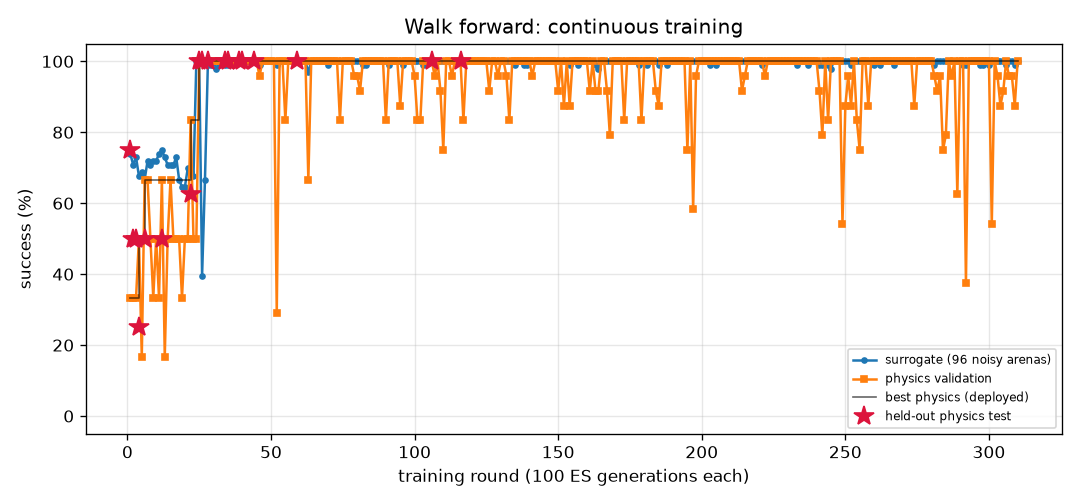
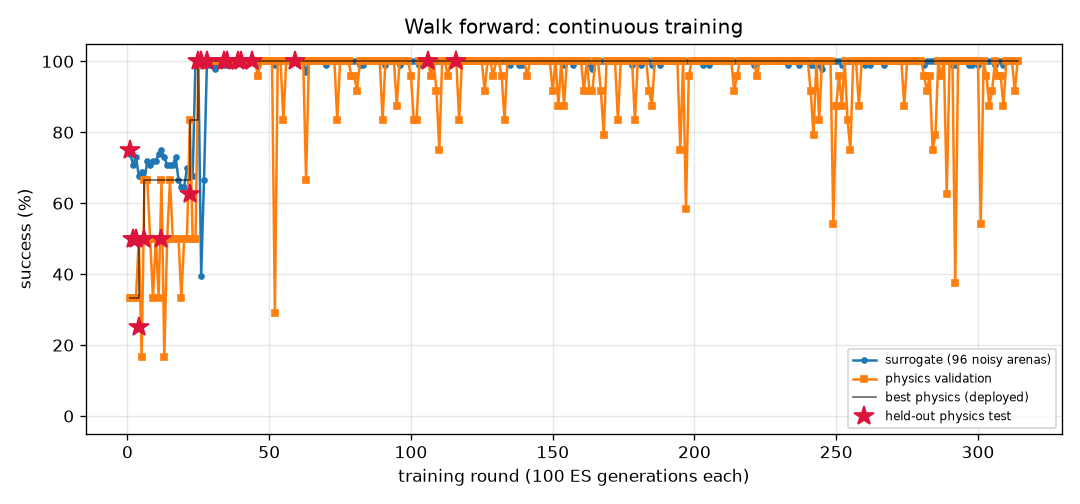
FlyLab: continuous training progress
- walk_forward: optimal, physics val 100% of 24, round 314
- turn: optimal, physics val 100% of 24, round 906
- goto: optimal, physics val 100% of 24, round 251
- odor_seek: optimal, physics val 100% of 24, round 205
- odor_avoid: optimal, physics val 100% of 24, round 817
- light_seek: optimal, physics val 100% of 24, round 447
- light_avoid: optimal, physics val 100% of 24, round 547

diff --git a/projects/09_flylab/training/walk_forward/REPORT.md b/projects/09_flylab/training/walk_forward/REPORT.md
@@ -1,14 +1,14 @@
 # Walk forward (`walk_forward`) — training report
 
-*Auto-generated by `train_brains.py`, last updated 2026-11-07T14:59:04.*
+*Auto-generated by `train_brains.py`, last updated 2026-11-07T15:44:13.*
 
 ![curve](curve.png)
 
 | | |
 |---|---|
-| rounds | 310 |
-| ES generations | 31000 |
-| physics runs | 7454 |
+| rounds | 314 |
+| ES generations | 31400 |
+| physics runs | 7550 |
 | status | **optimal** |
 | best brain | round 116: physics validation **100%** on 24 arenas, surrogate 100% |
 | held-out physics test | **100%** on 32 unseen arenas (95% CI 89%-100%) (errors: [0.13, 0.16, 0.19, 0.16, 0.15, 0.2, 0.17, 0.18, 0.17, 0.19, 0.2, 0.14, 0.17, 0.19, 0.2, 0.2, 0.13, 0.19, 0.16, 0.2, 0.2, 0.16, 0.17, 0.2, 0.13, 0.15, 0.18, 0.14, 0.16, 0.15, 0.19, 0.12]) |
@@ -17,10 +17,6 @@ Physics error per arena: mm from target at the end (< 1.5 and standing still = s
 
 | round | level | gens | sigma | surrogate | physics val | val errors | test | note |
 |---:|---:|---:|---:|---:|---:|---|---:|---|
-| 271 | 3 | 27100 | 0.024 | 100% | 100% | [0.32, 0.23, 0.08, 0.31, 0.24, 0.24, 0.22, 0.09, 0.22, 0.23, 0.09, 0.27, 0.11, 0.08, 0.26, 0.21, 0.15, 0.14, 0.1, 0.16, 0.1, 0.2, 0.26, 0.1] |  |  |
-| 272 | 3 | 27200 | 0.024 | 100% | 100% | [0.21, 0.25, 0.16, 0.21, 0.25, 0.16, 0.25, 0.18, 0.24, 0.25, 0.16, 0.23, 0.18, 0.16, 0.23, 0.23, 0.21, 0.24, 0.19, 0.23, 0.2, 0.24, 0.22, 0.18] |  | restart from best |
-| 273 | 3 | 27300 | 0.024 | 100% | 100% | [0.35, 0.34, 0.25, 0.35, 0.34, 0.24, 0.34, 0.28, 0.34, 0.3, 0.23, 0.28, 0.28, 0.24, 0.35, 0.28, 0.33, 0.35, 0.28, 0.35, 0.31, 0.29, 0.27, 0.28] |  |  |
-| 274 | 3 | 27400 | 0.024 | 100% | 88% | [0.22, 0.12, 0.07, 0.21, 0.1, 0.08, 0.08, 0.04, 0.08, 0.12, 0.08, 0.1, 0.29, 0.07, 0.22, 0.1, 0.2, 0.08, 0.17, 0.22, 0.07, 0.06, 0.05, 0.0] |  |  |
 | 275 | 3 | 27500 | 0.024 | 100% | 100% | [0.27, 0.27, 0.2, 0.26, 0.27, 0.18, 0.26, 0.24, 0.27, 0.24, 0.17, 0.21, 0.23, 0.18, 0.27, 0.22, 0.26, 0.27, 0.24, 0.27, 0.25, 0.23, 0.2, 0.23] |  |  |
 | 276 | 3 | 27600 | 0.024 | 100% | 100% | [0.05, 0.1, 0.09, 0.08, 0.09, 0.08, 0.05, 0.07, 0.11, 0.16, 0.1, 0.13, 0.1, 0.1, 0.11, 0.13, 0.22, 0.1, 0.27, 0.09, 0.05, 0.11, 0.15, 0.09] |  | restart from best |
 | 277 | 3 | 27700 | 0.024 | 100% | 100% | [0.19, 0.18, 0.16, 0.19, 0.18, 0.14, 0.18, 0.17, 0.18, 0.17, 0.06, 0.14, 0.17, 0.15, 0.19, 0.15, 0.18, 0.18, 0.18, 0.19, 0.18, 0.17, 0.14, 0.18] |  |  |
@@ -57,3 +53,7 @@ Physics error per arena: mm from target at the end (< 1.5 and standing still = s
 | 308 | 3 | 30800 | 0.024 | 100% | 96% | [0.06, 0.09, 0.05, 0.09, 0.1, 0.18, 0.09, 0.07, 0.09, 0.2, 0.1, 0.22, 0.07, 0.12, 0.08, 0.22, 0.09, 0.07, 0.08, 0.13, 0.08, 0.18, 0.21, 0.06] |  | restart from best |
 | 309 | 3 | 30900 | 0.024 | 99% | 88% | [0.2, 0.07, 0.05, 0.2, 0.09, 0.05, 0.05, 0.38, 0.09, 0.09, 0.05, 0.13, 0.07, 0.63, 0.06, 0.17, 0.23, 0.07, 0.09, 0.07, 0.04, 0.1, 0.09, 0.06] |  |  |
 | 310 | 3 | 31000 | 0.025 | 100% | 100% | [0.27, 0.3, 0.22, 0.27, 0.3, 0.19, 0.29, 0.22, 0.29, 0.27, 0.19, 0.25, 0.22, 0.2, 0.27, 0.26, 0.27, 0.29, 0.22, 0.27, 0.23, 0.27, 0.25, 0.22] |  |  |
+| 311 | 3 | 31100 | 0.024 | 100% | 100% | [0.2, 0.26, 0.18, 0.19, 0.26, 0.19, 0.26, 0.17, 0.26, 0.27, 0.2, 0.26, 0.18, 0.19, 0.21, 0.27, 0.18, 0.24, 0.17, 0.22, 0.17, 0.27, 0.25, 0.18] |  |  |
+| 312 | 3 | 31200 | 0.024 | 100% | 100% | [0.27, 0.41, 0.14, 0.27, 0.41, 0.07, 0.43, 0.25, 0.45, 0.48, 0.12, 0.48, 0.24, 0.09, 0.28, 0.47, 0.26, 0.34, 0.24, 0.32, 0.25, 0.49, 0.47, 0.25] |  | restart from best |
+| 313 | 3 | 31300 | 0.024 | 100% | 92% | [0.1, 0.14, 0.19, 0.07, 0.14, 0.1, 0.24, 0.11, 0.13, 0.3, 0.12, 0.33, 0.1, 0.03, 0.08, 0.29, 0.04, 0.16, 0.07, 0.08, 0.06, 0.22, 0.24, 0.1] |  |  |
+| 314 | 3 | 31400 | 0.024 | 100% | 100% | [0.24, 0.23, 0.22, 0.24, 0.23, 0.22, 0.23, 0.23, 0.23, 0.22, 0.21, 0.21, 0.24, 0.22, 0.23, 0.21, 0.24, 0.23, 0.24, 0.23, 0.24, 0.22, 0.2, 0.24] |  |  |

diff --git a/projects/09_flylab/training/light_seek/REPORT.md b/projects/09_flylab/training/light_seek/REPORT.md
@@ -1,14 +1,14 @@
 # Walk toward light (`light_seek`) — training report
 
-*Auto-generated by `train_brains.py`, last updated 2026-11-07T14:47:20.*
+*Auto-generated by `train_brains.py`, last updated 2026-11-07T15:35:28.*
 
 ![curve](curve.png)
 
 | | |
 |---|---|
-| rounds | 444 |
-| ES generations | 44400 |
-| physics runs | 7536 |
+| rounds | 447 |
+| ES generations | 44700 |
+| physics runs | 7608 |
 | status | **optimal** |
 | best brain | round 375: physics validation **100%** on 24 arenas, surrogate 100% |
 | held-out physics test | **100%** on 32 unseen arenas (95% CI 89%-100%) (errors: [0.57, 0.54, 0.53, 0.57, 0.55, 0.56, 0.59, 0.56, 0.53, 0.56, 0.71, 0.56, 0.55, 0.54, 0.53, 0.54, 0.54, 0.55, 0.52, 0.65, 0.64, 0.7, 0.58, 0.57, 0.6, 0.62, 0.55, 0.88, 0.54, 0.52, 0.62, 0.57]) |
@@ -17,9 +17,6 @@ Physics error per arena: mm from target at the end (< 1.5 and standing still = s
 
 | round | level | gens | sigma | surrogate | physics val | val errors | test | note |
 |---:|---:|---:|---:|---:|---:|---|---:|---|
-| 405 | 3 | 40500 | 0.024 | 100% | 92% | [1.78, 0.52, 0.49, 0.59, 0.58, 0.48, 0.56, 0.58, 1.91, 0.52, 0.51, 0.54, 0.5, 0.51, 0.67, 0.49, 0.58, 0.54, 0.47, 1.4, 0.58, 0.53, 0.51, 0.51] |  |  |
-| 406 | 3 | 40600 | 0.024 | 100% | 100% | [0.62, 0.54, 0.55, 0.57, 0.64, 0.75, 0.63, 0.66, 0.82, 0.56, 0.56, 0.62, 0.58, 0.59, 0.56, 0.57, 0.54, 0.55, 0.6, 0.62, 0.61, 0.77, 0.57, 0.58] |  |  |
-| 407 | 3 | 40700 | 0.024 | 100% | 92% | [0.68, 0.97, 0.6, 0.74, 0.69, 0.74, 0.68, 0.96, 0.68, 0.69, 0.62, 0.71, 0.73, 1.71, 0.62, 1.18, 0.64, 0.77, 0.7, 0.68, 2.61, 0.74, 0.6, 0.7] |  | restart from best |
 | 408 | 3 | 40800 | 0.024 | 100% | 100% | [0.62, 0.61, 0.54, 0.55, 0.54, 0.67, 0.63, 0.61, 0.6, 0.49, 0.53, 0.68, 0.54, 0.63, 0.66, 0.6, 0.57, 0.52, 0.57, 0.71, 1.04, 0.67, 0.62, 0.67] |  |  |
 | 409 | 3 | 40900 | 0.024 | 100% | 100% | [0.75, 0.51, 0.58, 0.81, 0.61, 0.62, 0.64, 0.7, 0.66, 0.79, 0.55, 0.61, 0.58, 0.64, 0.68, 0.62, 0.62, 0.56, 0.55, 0.6, 0.72, 0.69, 0.61, 0.74] |  |  |
 | 410 | 3 | 41000 | 0.024 | 100% | 100% | [0.69, 0.61, 0.71, 0.69, 0.63, 0.71, 0.68, 0.69, 0.68, 0.61, 0.74, 0.67, 0.68, 0.68, 0.82, 0.6, 0.66, 0.69, 0.61, 0.75, 0.71, 0.74, 0.68, 0.68] |  |  |
@@ -57,3 +54,6 @@ Physics error per arena: mm from target at the end (< 1.5 and standing still = s
 | 442 | 3 | 44200 | 0.024 | 100% | 100% | [0.71, 0.54, 0.61, 0.65, 0.7, 0.66, 0.57, 0.71, 0.96, 0.64, 0.56, 0.65, 0.59, 0.55, 0.77, 0.71, 1.01, 0.58, 0.58, 0.64, 0.71, 0.61, 0.6, 0.7] |  |  |
 | 443 | 3 | 44300 | 0.024 | 100% | 96% | [0.57, 0.6, 0.61, 0.67, 0.6, 0.6, 0.67, 0.64, 0.62, 0.58, 0.76, 0.65, 0.69, 0.79, 0.72, 0.62, 0.61, 0.59, 0.57, 0.57, 2.08, 0.71, 0.63, 0.66] |  | restart from best |
 | 444 | 3 | 44400 | 0.024 | 100% | 100% | [0.87, 0.54, 0.51, 0.54, 0.48, 0.63, 0.57, 0.5, 1.31, 0.52, 0.65, 0.49, 0.6, 0.56, 0.52, 0.5, 0.57, 0.51, 0.52, 0.59, 0.52, 0.49, 0.59, 0.58] |  |  |
+| 445 | 3 | 44500 | 0.024 | 100% | 96% | [0.57, 0.67, 0.59, 2.65, 0.59, 0.65, 0.59, 0.74, 0.73, 0.63, 0.68, 0.65, 0.67, 0.56, 0.82, 0.65, 0.6, 0.68, 0.59, 0.58, 0.66, 0.61, 0.78, 0.67] |  |  |
+| 446 | 3 | 44600 | 0.024 | 100% | 83% | [0.73, 0.64, 1.6, 0.7, 0.57, 1.27, 1.56, 0.62, 1.31, 0.69, 0.6, 0.95, 0.63, 0.63, 0.54, 0.64, 0.66, 0.52, 0.57, 0.53, 0.66, 0.78, 1.49, 0.6] |  |  |
+| 447 | 3 | 44700 | 0.024 | 100% | 100% | [0.69, 0.74, 0.78, 0.71, 0.57, 0.7, 0.61, 0.75, 0.62, 0.64, 0.69, 0.65, 0.62, 0.67, 0.58, 0.73, 0.63, 0.64, 0.7, 0.79, 0.57, 0.78, 0.69, 0.71] |  | restart from best |

diff --git a/projects/09_flylab/training/goto/REPORT.md b/projects/09_flylab/training/goto/REPORT.md
@@ -1,14 +1,14 @@
 # Go to a location (`goto`) — training report
 
-*Auto-generated by `train_brains.py`, last updated 2026-11-06T21:25:40.*
+*Auto-generated by `train_brains.py`, last updated 2026-11-07T15:50:30.*
 
 ![curve](curve.png)
 
 | | |
 |---|---|
-| rounds | 250 |
-| ES generations | 25000 |
-| physics runs | 5950 |
+| rounds | 251 |
+| ES generations | 25100 |
+| physics runs | 5974 |
 | status | **optimal** |
 | best brain | round 176: physics validation **100%** on 24 arenas, surrogate 100% |
 | held-out physics test | **100%** on 32 unseen arenas (95% CI 89%-100%) (errors: [0.2, 0.32, 0.19, 0.24, 0.18, 0.2, 0.19, 0.17, 0.22, 0.23, 0.23, 0.26, 0.2, 0.19, 0.24, 0.23, 0.22, 0.24, 0.2, 0.22, 0.2, 0.2, 0.26, 0.19, 0.22, 0.18, 0.26, 0.22, 0.2, 0.26, 0.23, 0.23]) |
@@ -17,7 +17,6 @@ Physics error per arena: mm from target at the end (< 1.5 and standing still = s
 
 | round | level | gens | sigma | surrogate | physics val | val errors | test | note |
 |---:|---:|---:|---:|---:|---:|---|---:|---|
-| 211 | 3 | 21100 | 0.024 | 100% | 100% | [0.74, 0.73, 0.74, 0.67, 0.63, 0.66, 0.75, 0.68, 0.71, 0.64, 0.62, 0.66, 0.73, 0.59, 0.65, 0.67, 0.75, 0.66, 0.64, 0.71, 0.67, 0.67, 0.74, 0.66] |  |  |
 | 212 | 3 | 21200 | 0.024 | 100% | 100% | [0.42, 0.46, 0.45, 0.39, 0.36, 0.38, 0.45, 0.42, 0.43, 0.37, 0.36, 0.39, 0.45, 0.37, 0.44, 0.44, 0.44, 0.38, 0.36, 0.43, 0.41, 0.39, 0.43, 0.39] |  | restart from best |
 | 213 | 3 | 21300 | 0.024 | 99% | 100% | [0.59, 0.61, 0.48, 0.6, 0.49, 0.56, 0.59, 0.64, 0.61, 0.49, 0.5, 0.58, 0.58, 0.52, 0.5, 0.58, 0.62, 0.6, 0.5, 0.62, 0.56, 0.51, 0.58, 0.62] |  |  |
 | 214 | 3 | 21400 | 0.025 | 100% | 92% | [0.3, 0.34, 0.31, 0.25, 0.06, 0.14, 0.29, 0.28, 0.27, 0.21, 2.43, 0.26, 0.29, 0.26, 0.3, 0.3, 0.33, 0.35, 2.71, 0.27, 0.21, 0.24, 0.32, 0.24] |  |  |
@@ -57,3 +56,4 @@ Physics error per arena: mm from target at the end (< 1.5 and standing still = s
 | 248 | 3 | 24800 | 0.025 | 99% | 100% | [0.52, 0.54, 0.55, 0.42, 0.42, 0.43, 0.49, 0.46, 0.46, 0.4, 0.39, 0.41, 0.5, 0.43, 0.46, 0.48, 0.51, 0.43, 0.39, 0.46, 0.47, 0.39, 0.53, 0.42] |  | restart from best |
 | 249 | 3 | 24900 | 0.024 | 99% | 100% | [0.36, 0.39, 0.3, 0.36, 0.29, 0.36, 0.34, 0.38, 0.37, 0.33, 0.32, 0.35, 0.36, 0.38, 0.35, 0.35, 0.38, 0.35, 0.3, 0.32, 0.33, 0.33, 0.38, 0.4] |  |  |
 | 250 | 3 | 25000 | 0.025 | 99% | 100% | [0.42, 0.45, 0.37, 0.42, 0.33, 0.39, 0.43, 0.44, 0.44, 0.36, 0.36, 0.4, 0.42, 0.38, 0.41, 0.37, 0.46, 0.38, 0.33, 0.38, 0.37, 0.39, 0.42, 0.42] |  |  |
+| 251 | 3 | 25100 | 0.025 | 99% | 100% | [0.61, 0.61, 0.44, 0.49, 0.43, 0.47, 0.58, 0.52, 0.57, 0.45, 0.43, 0.46, 0.58, 0.45, 0.56, 0.5, 0.65, 0.49, 0.42, 0.57, 0.48, 0.45, 0.61, 0.5] |  |  |

diff --git a/projects/09_flylab/training/TRAINING.md b/projects/09_flylab/training/TRAINING.md
@@ -1,15 +1,15 @@
 # FlyLab brains — continuous training log
 
-*Auto-generated by `train_brains.py`, last updated 2026-11-07T14:59:04.*
+*Auto-generated by `train_brains.py`, last updated 2026-11-07T15:50:30.*
 
 Every skill has its own brain and its own training process: surrogate ES rounds, physics validation in MuJoCo, keep-the-best selection, and a held-out physics test that is never used for selection. See each skill's report for its full round-by-round history. Mastery is progressive: passing a level (100% physics validation, >=95% surrogate) doubles the validation and test arena sets; a brain is **optimal** once it holds up at level 3 (>=95% of 24 validation arenas) AND scores >=90% on the 32 held-out test arenas. Test columns show 95% Wilson confidence intervals.
 
 | skill | rounds | ES generations | physics runs | surrogate | physics val | **physics test** | status |
 |---|---:|---:|---:|---:|---:|---:|---|
-| [Walk forward](walk_forward/REPORT.md) | 310 | 31000 | 7454 | 100% | 100% of 24 | 100% of 32 (CI 89-100%) | **optimal** |
+| [Walk forward](walk_forward/REPORT.md) | 314 | 31400 | 7550 | 100% | 100% of 24 | 100% of 32 (CI 89-100%) | **optimal** |
 | [Turn in place](turn/REPORT.md) | 906 | 90600 | 21990 | 100% | 100% of 24 | 97% of 32 (CI 84-99%) | **optimal** |
-| [Go to a location](goto/REPORT.md) | 250 | 25000 | 5950 | 100% | 100% of 24 | 100% of 32 (CI 89-100%) | **optimal** |
+| [Go to a location](goto/REPORT.md) | 251 | 25100 | 5974 | 100% | 100% of 24 | 100% of 32 (CI 89-100%) | **optimal** |
 | [Find food by smell](odor_seek/REPORT.md) | 205 | 20500 | 4350 | 100% | 100% of 24 | 100% of 32 (CI 89-100%) | **optimal** |
 | [Escape a bad smell](odor_avoid/REPORT.md) | 817 | 81700 | 16914 | 97% | 100% of 24 | 97% of 32 (CI 84-99%) | **optimal** |
-| [Walk toward light](light_seek/REPORT.md) | 444 | 44400 | 7536 | 100% | 100% of 24 | 100% of 32 (CI 89-100%) | **optimal** |
+| [Walk toward light](light_seek/REPORT.md) | 447 | 44700 | 7608 | 100% | 100% of 24 | 100% of 32 (CI 89-100%) | **optimal** |
 | [Hide from light](light_avoid/REPORT.md) | 547 | 54700 | 13400 | 100% | 100% of 24 | 100% of 32 (CI 89-100%) | **optimal** |
